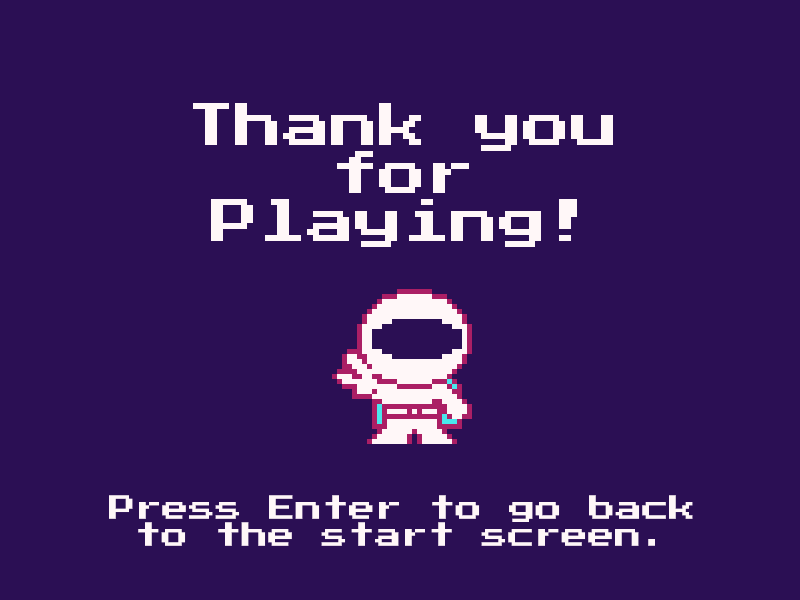
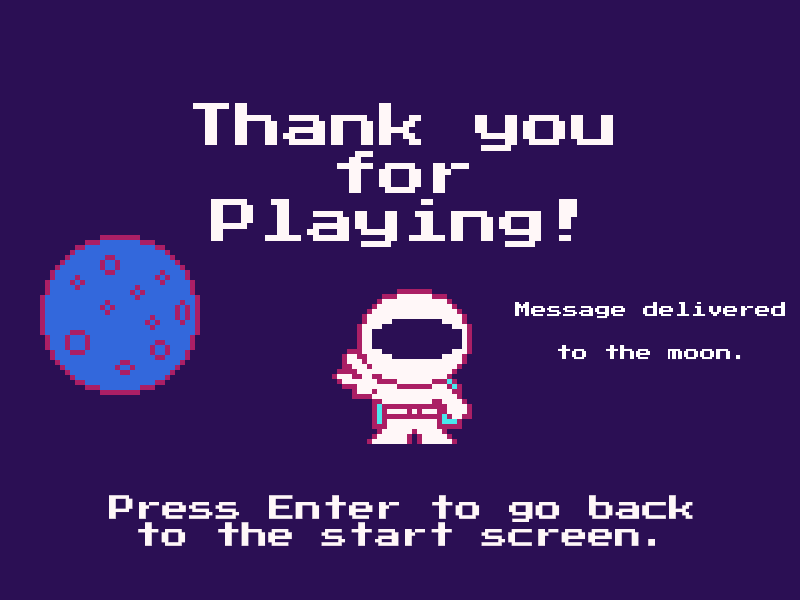
Moonshot Commander adjustments.

diff --git a/apps/moonshot-commander/index.html b/apps/moonshot-commander/index.html
@@ -1,13 +1,42 @@
 <!DOCTYPE html>
 <html>
 <head>
-  <meta charset="utf-8"/>
-  <meta content="width=device-width, initial-scale=1.0, maximum-scale=1.0, user-scalable=no" name="viewport"/>
+  <meta http-equiv="Content-Type" content="text/html; charset=utf-8" />
+  <meta http-equiv="X-UA-Compatible" content="IE=edge"/>
+  <meta name="viewport" content="width=device-width, initial-scale=1"/>
+
   <title>Commander Moonshot</title>
   <meta name="author" content="Lewis Nakao">
-  <meta name="description" content="Top-down shooter space game.">
+  <meta name="description" content="Classic top-down shooter with boss. Source code availble. Made using JavaScript.">
+  <meta name="keywords" content="Game Off 2020, HTML Canvas Game, JavaScript, Open Source">
+
+  <!-- Twitter -->
+  <meta name="twitter:card" content="summary_large_image">
+  <meta name="twitter:title" content="🚀 Commander Moonshot">
+  <meta name="twitter:description" content="Classic top-down shooter with boss. Source code availble. Made using JavaScript.">
+  <meta name="twitter:site" content="@lewdev">
+  <meta name="twitter:creator" content="@lewdev">
+  <meta name="twitter:image" content="https://lewdev.github.io/apps/moonshot-commander/assets/start-screen.png">
+
+  <!-- Open Graph general (Facebook, Pinterest)-->
+  <meta property="og:title" content="🚀 Commander Moonshot">
+  <meta property="og:description" content="Classic top-down shooter with boss. Source code availble. Made using JavaScript.">
+  <meta property="og:url" content="https://lewdev.github.io/apps/moonshot-commander">
+  <meta property="og:site_name" content="lewdev.github.io">
+  <meta property="og:type" content="website">
+  <meta property="og:image" content="https://lewdev.github.io/apps/moonshot-commander/assets/start-screen.png">
+  <!-- https://realfavicongenerator.net -->
+  <link rel="apple-touch-icon" sizes="180x180" href="icons/apple-touch-icon.png">
+  <link rel="icon" type="image/png" sizes="32x32" href="icons/favicon-32x32.png">
+  <link rel="icon" type="image/png" sizes="16x16" href="icons/favicon-16x16.png">
+  <link rel="manifest" href="icons/site.webmanifest">
+  <link rel="mask-icon" href="icons/safari-pinned-tab.svg" color="#2b0f54">
+  <meta name="msapplication-TileColor" content="#2b0f54">
+  <meta name="theme-color" content="#2b0f54">
+  <!-- CSS -->
+  <link href="style.css" rel="stylesheet">
 </head>
-<body style="margin:0;background-color:#2b0f54;">
+<body style="">
 
 <script src="lib/ZzFX.js"></script>
 <!-- <script src="lib/ZzFXM.js"></script> -->

diff --git a/apps/moonshot-commander/script.js b/apps/moonshot-commander/script.js
@@ -3,13 +3,13 @@ const main = (() => {
   const APP_DATA_KEY = "moonshot-commander";
   let endScreenInterval;
   let startScreenInterval;
+  let endScreenStart = 0;
   window.onload = () => {
     c.width = 800; c.height = 600;
     c.style.marginLeft = 'auto';
     c.style.marginRight = 'auto';
+    c.style.display = 'block';
     document.body.appendChild(c);
-    state = GAME_STATE.START;
-    loadData();
     Keys.init();
     Img.init();
     startScreen();
@@ -92,13 +92,20 @@ const main = (() => {
     else if (state === GAME_STATE.END) {
       clearInterval(gameLoop);
       const img = IMG_MAP["game-complete-screen"];
+      const faceImg = IMG_MAP["moonshot-commander-face"];
       Music.play("cruising-thru-space");
+      endScreenStart = t;
       endScreenInterval = setInterval(() => {
         if (state === GAME_STATE.END) {
           Draw.clear(Colors.BLACK);
           Keys.handle();
           ctx.drawImage(img.image, 0, 0, 800, 600, 0, 0, 800, 600);
+          // reveal face after 10 seconds as a bonus to those who are patient
+          if (t - endScreenStart > 10000) {
+            ctx.drawImage(faceImg.image, 0, 0, 160, 160, 300, 250, 220, 220);
+          }
         }
+        t = (new Date()).getTime();
       }, 30);
     }
   };
@@ -151,7 +158,6 @@ const main = (() => {
     && b.pos.y + (b.h / 2) > a.pos.y - (a.h / 2 * 1.2)
   ;
   const handleCollisions = () => all.forEach((unit, i) => {
-    //check collision
     if (unit.type === 'item') {
       const index = all.findIndex(a => unit !== a && a.type === 'friend' && collided(a, unit));
       if (index > -1) {
@@ -244,20 +250,5 @@ const main = (() => {
       }
     });
   };
-  const loadData = () => {
-    const localData = window.localStorage.getItem(APP_DATA_KEY);
-    if (localData) {
-      const parsedData = JSON.parse(localData);
-      if (parsedData) {
-        data = parsedData;
-      }
-    }
-  };
-  const saveData = () => {
-    window.localStorage.setItem(APP_DATA_KEY, JSON.stringify(data));
-  }
-  const clearData = () => {
-    window.localStorage.setItem(APP_DATA_KEY, JSON.stringify(data));
-  }
   return { startGame, startScreen }
 })();

diff --git a/apps/moonshot-commander/config.js b/apps/moonshot-commander/config.js
@@ -4,6 +4,7 @@ const IMG_MAP = {
   "moonshot-assets": { src: 'assets/moonshot-assets.png' },
   "start-screen": { src: 'assets/start-screen.png' },
   "game-complete-screen": { src: 'assets/game-complete-screen.png' },
+  "moonshot-commander-face": { src: 'assets/moonshot-commander-face.png' },
 };
 const MUSIC_VOLUME = .5;
 const BULLET_DAMAGE = { enemy: 10, player: 40, bot: 30 };

diff --git a/apps/moonshot-commander/style.css b/apps/moonshot-commander/style.css
@@ -1,0 +1,4 @@
+body {
+  margin:0;
+  background-color:#2b0f54;
+}
